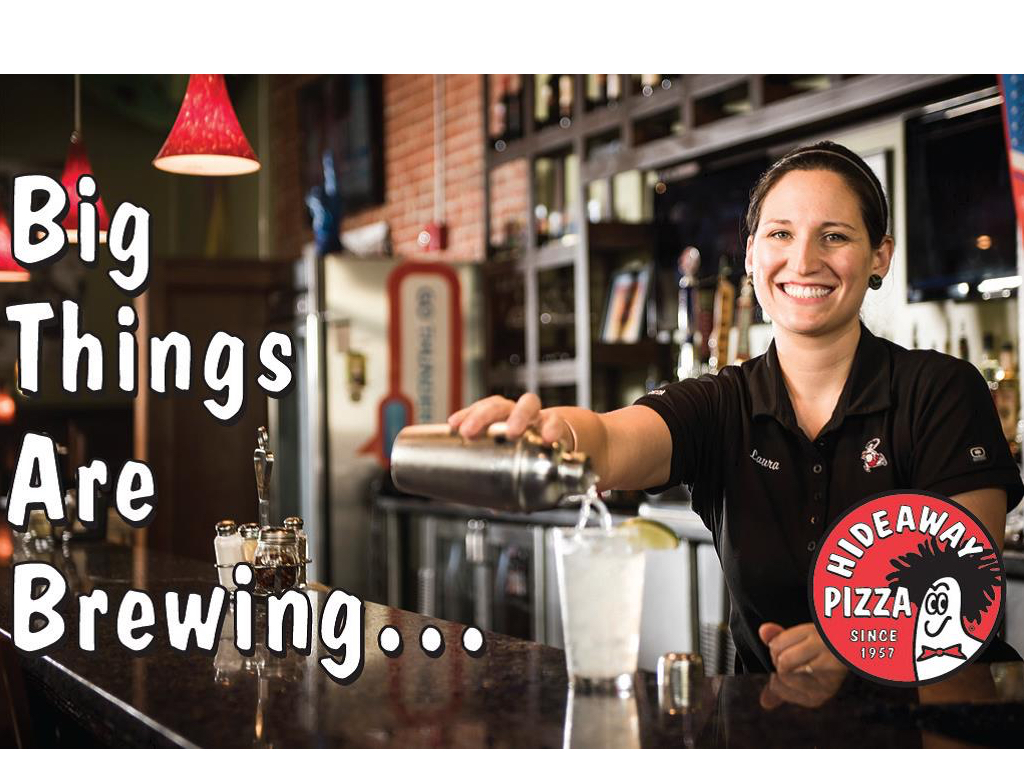
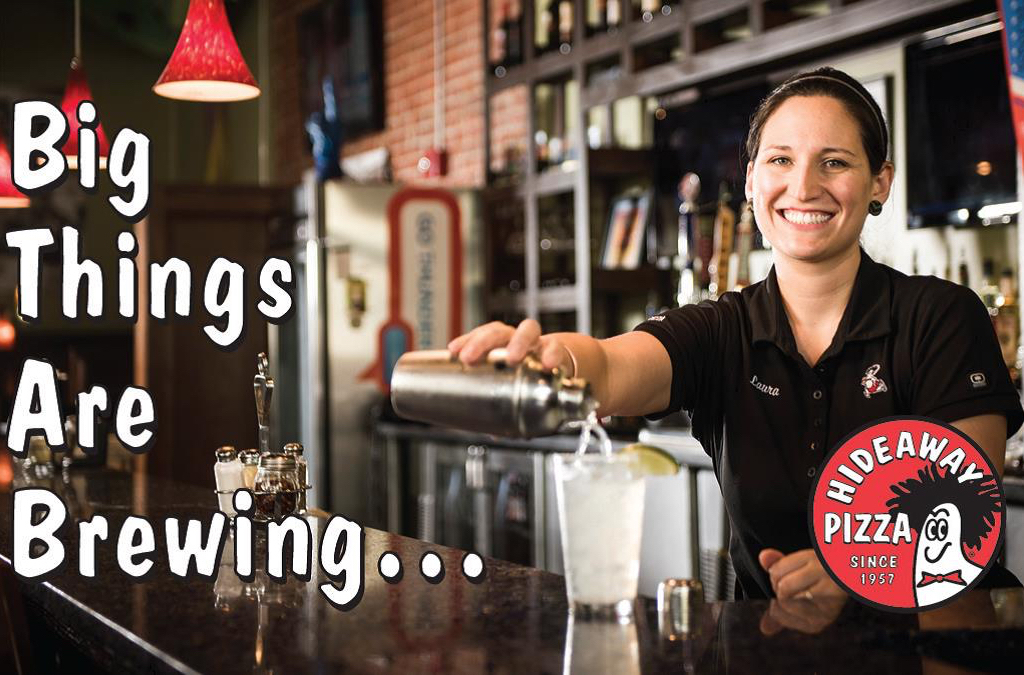
resized some slide show images

diff --git a/css/styles.css b/css/styles.css
@@ -11,7 +11,7 @@ body {
     border-radius: 25px;
     border: 2px solid black;
     padding: 40px;
-    background-color: white;
+    background-color: wblachite;
     width: 50%;
     margin: 10% auto;
 }
